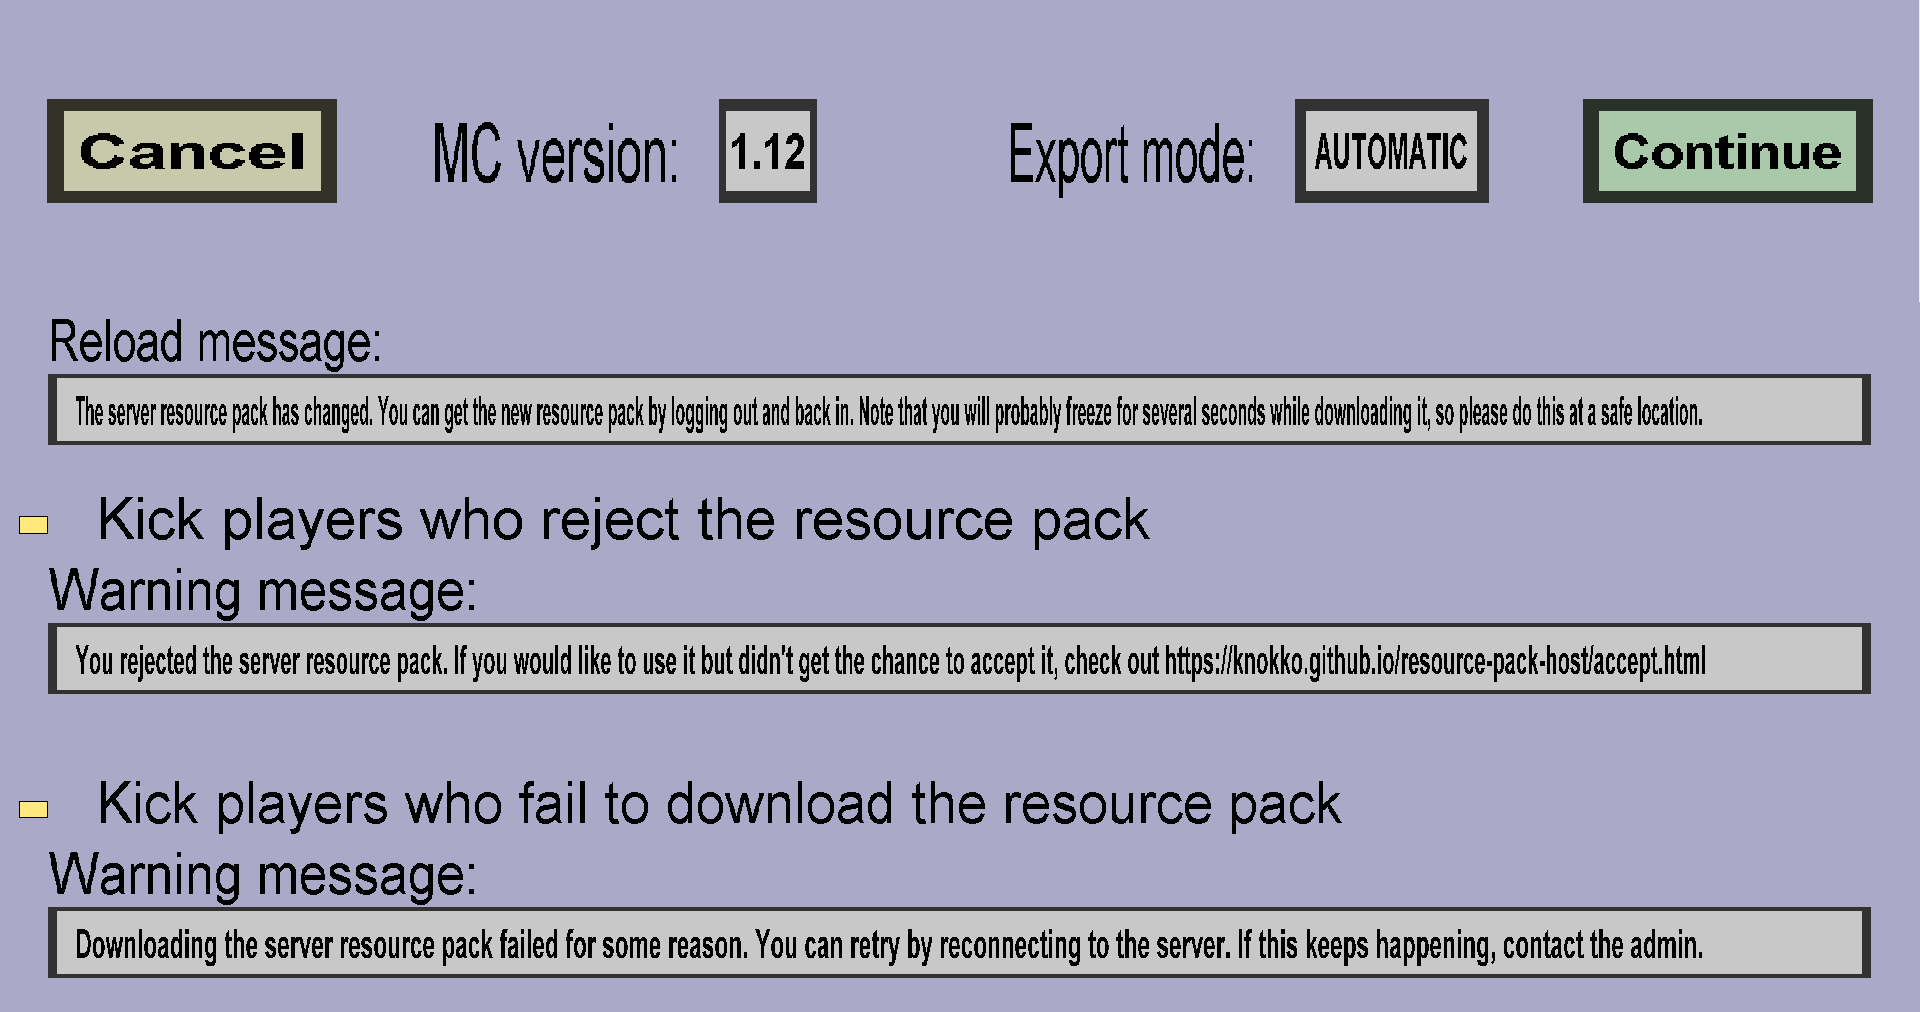
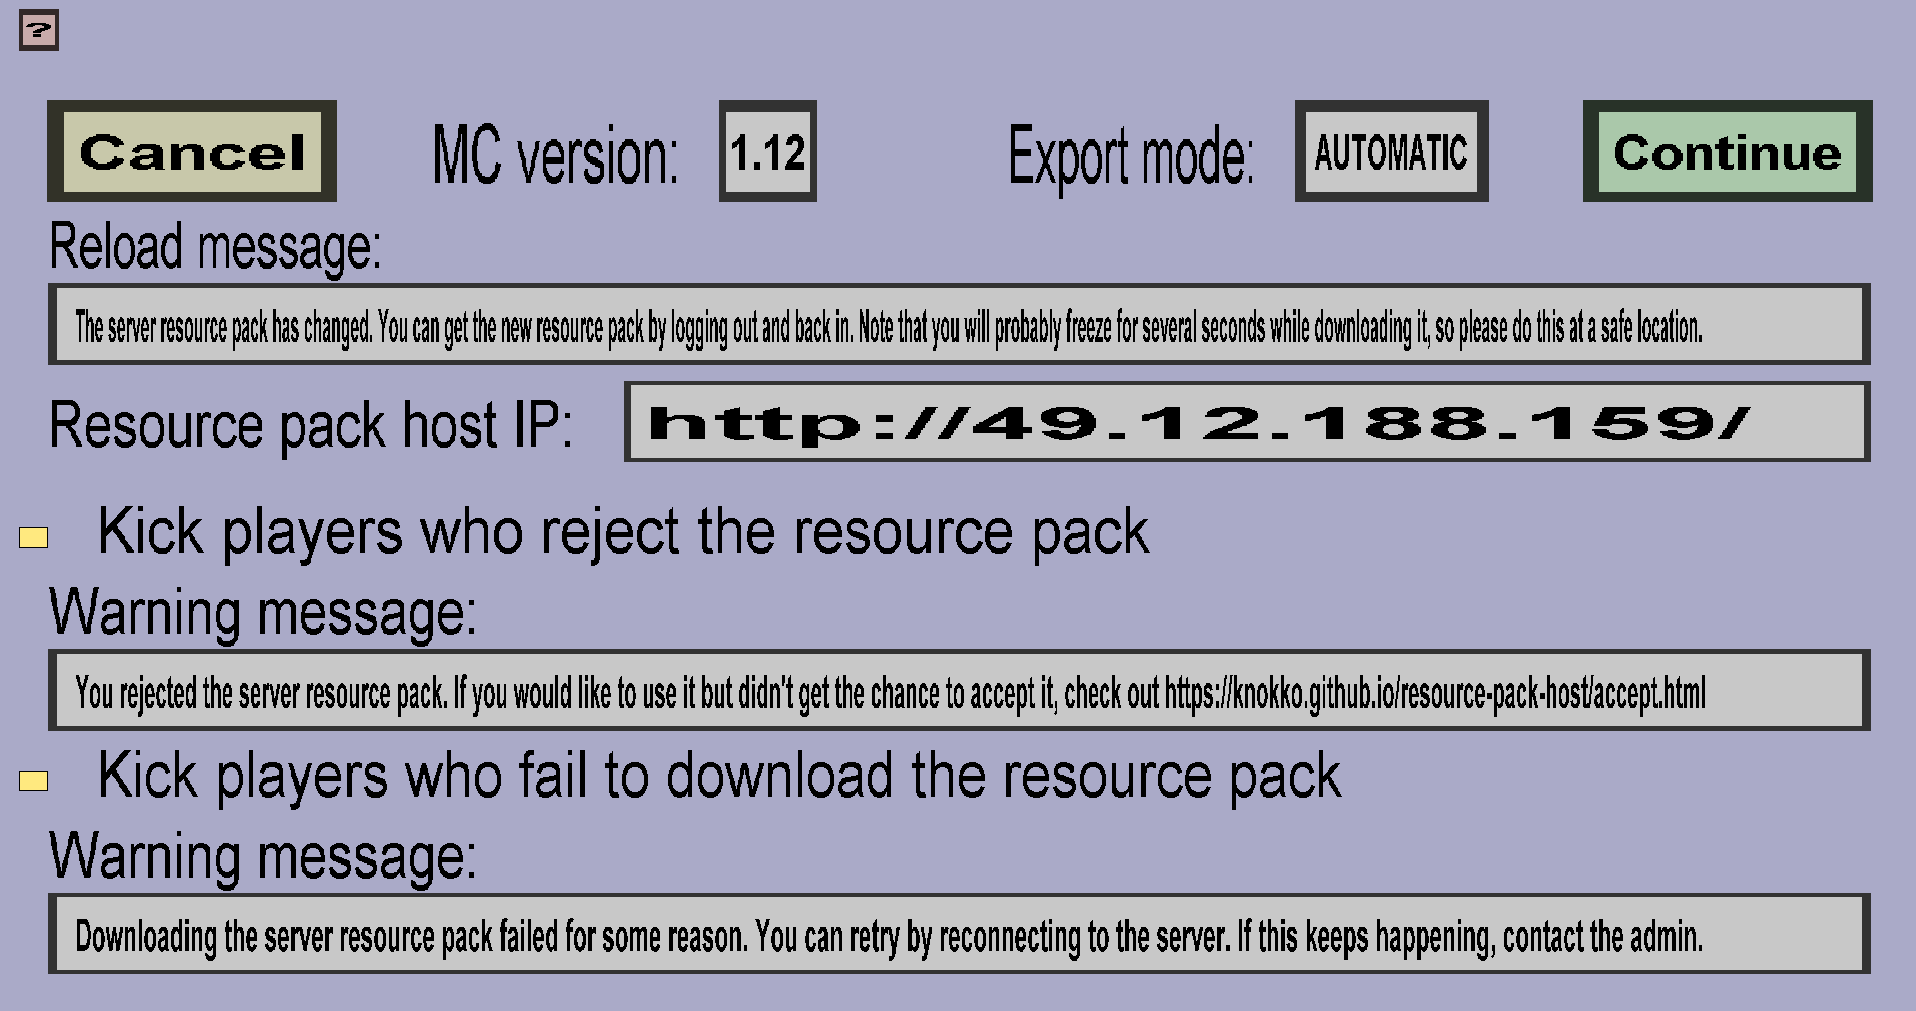
Document the configurable resource pack host IP of KCI 13

diff --git a/custom items/commands.html b/custom items/commands.html
@@ -76,11 +76,13 @@
             <li>If no coordinates are specified, the sound will be played at your position.</li>
         </ul>
         <p>Required permission: customitems.playsound</p>
-        <h2>/kci reload [export hash]</h2>
+        <h2>/kci reload [export hash] [resource pack host ip]</h2>
         <p>
             Reloads your <i>config.yml</i> and <i>lang.yml</i> files. If the <b>export hash</b> is specified, it will
             also update your custom items and your resourcepack. The Editor will give you the <b>export hash</b> when
-            you export.
+            you export. If you specify a <b>resource pack host ip</b>, the plug-in will download the resource pack
+            from the custom resource pack hosting service at the given address. If you don't specify it, the default
+            resource pack host will be used.
         </p>
         <p>Required permission: customitems.reload</p>
         <h2>/kci repair &lt;amount&gt; [player name]</h2>

diff --git a/custom items/editor documentation/edit menu/export.html b/custom items/editor documentation/edit menu/export.html
@@ -52,6 +52,13 @@
         <p>
             This message will be broadcasted to all online players whenever the resource pack has been changed.
         </p>
+        <h3>Resource pack host IP</h3>
+        <p>
+            If you don't want to use the default resource pack hosting server, you can host your own resource pack
+            hosting service and put its IP address or host name here. If you really want to do this, you need to
+            run the <a href="https://github.com/knokko/resource-pack-host">resource pack host software</a> on your
+            own host. <b>Note: the default resource pack host should be fine for most people.</b>
+        </p>
         <h3>Kick players who reject the resource pack</h3>
         <p>
             Whether the plug-in should kick all players who reject the server resource pack. Enable this if you
